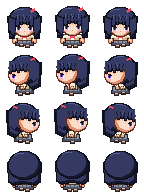
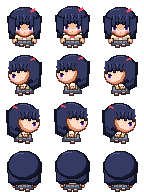
ちびキャラ：顔の上下・左右の明暗をドット単位でつけ、鼻を1ドット下げる
Claude-Session: https://claude.ai/code/session_017gxvkc2TW4xYgG5MuSL3N1

Changed region(s): [[0.7778, 0.125, 0.8889, 0.1875], [0.4444, 0.125, 0.5556, 0.1875], [0.1111, 0.125, 0.2222, 0.1875]]

diff --git a/files.js b/files.js
@@ -2,7 +2,7 @@
 // マップなどを足したら scripts に1行足す（順番どおりに読み込む。main.js は最後）。
 // 版の番号 v は tools/stamp.py が書き換える。
 window.FILES = {
-  v: '20261127042849',
+  v: '20261127043421',
   scripts: [
     'engine/core.js',
     'engine/world.js',

diff --git a/tools/sprites/make_chibi.py b/tools/sprites/make_chibi.py
@@ -243,6 +243,44 @@ def bangs(a, c, x0, x1, tips, top=12, base=21.6, face=None):
     return a.part(shapes, c['hair1'], c['hair2'], shade=c['hair2'], line=c['hairLine'], lw=0.7)
 
 
+def face_shade(a, c, m, hw_top=9):
+    """顔の上下と左右の明暗を1ドットずつ塗る（立体感）。
+    上から：前髪の下は中間色 → 目の下から頬（29〜31行）がいちばん明るい → 32〜33行は中間色 → あごの段は影色。
+    左右の端は内側へ 濃い影→影→（頬の段はもう1段影）→中間色 と暗くなる"""
+    tone = {1: c['skin1'], 2: c['skin2'], 3: c['skinS'], 4: c['handO']}
+    px = m.load()
+    for Y in range(FH):
+        xs = [X for X in range(FW) if px[X, Y] > 127]
+        if not xs:
+            continue
+        L, R = min(xs), max(xs)
+        if Y <= 29:  # 目の高さまでは横の髪が顔の縁になる
+            L, R = max(L, CX - hw_top), min(R, CX + hw_top)
+        base = 2 if Y <= 27 else 1 if Y <= 31 else 2 if Y <= 33 else 3
+        if Y == 28 and abs(xs[0] + xs[-1] - 2 * CX) <= 1:
+            base = 2
+        for X in xs:
+            if X < L or X > R:
+                continue
+            d = min(X - L, R - X) + 1
+            t = base
+            if d == 1:
+                t = max(t, 4 if Y >= 31 else 3)
+            elif d == 2:
+                t = max(t, 3)
+            elif d == 3:
+                t = max(t, 3 if Y in (30, 31) else 2)
+            elif d == 4 and Y in (30, 31):
+                t = max(t, 2)
+            if Y == 28 and abs(X - CX) <= 1:
+                t = max(t, 2)
+            a.im.putpixel((X, Y), rgb_t(tone[t]))
+
+
+def rgb_t(c):
+    return tuple(c[:3]) + (255,)
+
+
 def head(a, c, side):
     girl = c['girl']
     if side == 'up':
@@ -274,7 +312,7 @@ def head(a, c, side):
         eye(a, c, -10.4, side=True)
         if girl:
             a.blob(-13.4, 29.8, -10, 31.4, c['blush'], 0.45, 0.6)
-        a.dots(-14, 30, ['n'], {'n': c['skinS']})  # 鼻（点）
+        a.dots(-14, 31, ['n'], {'n': c['skinS']})  # 鼻（点）
         if girl:
             a.part([('p', [(6, 9.6), (9.6, 8), (10.4, 9.8), (6.8, 11.4)])], c['ribbon1'], c['ribbon2'], lw=0.4)
         if not girl:
@@ -287,6 +325,8 @@ def head(a, c, side):
     if not girl:
         a.part([('p', [(-11, 10), (-13, 6.4), (-6, 8)]), ('p', [(-2, 7.4), (0, 3.6), (2.4, 7.2)]), ('p', [(8, 9), (13, 6.6), (12, 12)])], c['hair1'], c['hair2'], line=c['hairLine'], lw=0.6)
     fm = a.part([('e', -10.4, 15.6, 10.4, 33.6)], c['skin1'], c['skin2'], shade=c['skinS'], sh=(1.2, 1.4), sb=1.0, line=c['skinLine'], lw=0.6)
+    if isinstance(a, Pixel):
+        face_shade(a, c, fm)
     tips = [(-12.4, -8.2, 25), (-8.8, -4.6, 24.6), (-4.6, -1.8, 22.2), (-1.6, 1.6, 20.6), (1.8, 4.6, 22.2), (4.6, 8.8, 24.6), (8.2, 12.4, 25)]  # 毛先は目の上端まで。真ん中だけ短く額が見える
     bm = bangs(a, c, -12.4, 12.4, tips, base=18, face=fm)
     for s in (-1, 1):  # 顔の横の髪：目の外側の端から あごの近くまで顔を縁取る
@@ -299,7 +339,7 @@ def head(a, c, side):
     if girl:
         a.blob(-8.6, 29.8, -4.8, 31.4, c['blush'], 0.45, 0.6)
         a.blob(4.8, 29.8, 8.6, 31.4, c['blush'], 0.45, 0.6)
-    a.dots(0, 30, ['n'], {'n': c['skinS']})  # 鼻（点）。口は省く
+    a.dots(0, 31, ['n'], {'n': c['skinS']})  # 鼻（点）。口は省く
     if girl:
         a.part([('p', [(6.4, 9), (10, 7.4), (10.8, 9.2), (7.2, 10.8)])], c['ribbon1'], c['ribbon2'], lw=0.4)
 

diff --git a/CLAUDE.md b/CLAUDE.md
@@ -10,7 +10,7 @@
 - 校舎（廊下8枚と部屋の型）は `tools/gen_school.py` で生成する。生成した `data/maps/school_*.js` は直接直さず、スクリプトを直して作り直す。お話のイベントは `data/story.js` に `G.addEvents` で足す（`at: '扉の名前'` で位置を決められる）。見取り図の施設名のうち学校が特定されそうな名前は一般的な名前に変える
 - 参考にした市販ゲームのファイル（データ・画像・音・シナリオ）はこのリポジトリに入れない
 - タイル素材（ドット絵世界）は二次配布禁止。元のPNGは入れず、`tools/encode_tileset.py` で変換した `data/tilesets/*.js` だけを入れる。タイトル画面の著作権表示（system.js の credits）は消さない
-- キャラの歩行グラフィックは、いまはちびキャラ（手本：RPGツクールMVの標準キャラの比率、約1.5頭身、1コマ48×48px）。`tools/sprites/make_chibi.py` で描き、`img/chars/haru_chibi.png`・`img/chars/yui_chibi.png` に書き出す。塗りは手本と同じくっきりしたドット絵（48×48pxに直接描く。ベタ塗り、段をつけた影と光、部品ごとに1ドットの濃い輪郭、目は1ドットずつ形を決め、白い光はほぼ使わず外側の白目と上が濃い瞳で表す。髪のかたまりは小さめで額は高め、前髪には毛束の明るい筋を1本おきに入れて凹凸を出す。胴は肩が細く裾へ広がる八の字で、腕も外へ開く。前髪の毛先は目の上端に接するまで下ろし、真ん中の毛束だけ短くしてそのすき間から額をのぞかせる。前髪のすぐ下の肌には影（1段目は影色、2段目は中間色）。顔の横の髪で、目の外側の端からあごの近くまで顔を縁取る（男子は細く短め）。肌は桃色がかった色（白っぽくしない）。目はまるごと見せる。やや上から見下ろしつつ足先まで全身を見せる（胴→スカート／ズボン→脚1ドット（女子は肌色）→靴2ドット（上が明るく下が暗い）。左右の足は幅5ドット（輪郭＋中身3）で間に1ドットのすき間。歩くと上げた足が1ドット上がる）。目は顔の大きさを変えずに大きく、5×5ドット（上まつげは3ドット幅で2段目が内側へ1ドットずれる斜め、黒目3ドット幅で上が濃く一番下が明るい、真ん中に縦2ドットの瞳孔、白目は外側3段・内側2段の両側）。目の間は7ドットで、目の外側は顔の縁（横の髪）に接する。見下ろす角度なので、肩はあごのすぐ下の行から始まり（上の面が明るく見える）、なで肩で下へ広がる。手は丸ではなくミトン形（幅4×高さ5、外側の輪郭は茶色・内側と下は濃い線で腕と胴の境目にもなる、明るい肌は真ん中上寄りに2×2、下の段の内側が欠けてその上に親指の付け根の点）。服の輪郭も濃い色。男子はシャツ6段・ベルト1段・ズボン3段（明るめの色、股の線）。女子のスカートは下半分に、地より濃い色の縦の折り目の線（中心をはさんで4ドット間隔の2本と、裾の両端寄り）。口は省いて鼻を1ドットの点で表す。幅の割合は、手を含めた体が頭の約8割。その中で胴は細く、肩と手を大きめにする）。手本を使うときは、数字で測るだけでなく必ず拡大して絵そのものを見比べる。「イラストを縮めた柔らかい塗り」は4頭身のための試しで、ちびキャラには使わない。3頭身・4頭身は見送り。約4頭身の版（`make_trial.py`→`trial.png`、`make_haru.py`→`haru.png`）も残してある。手本の絵は写さない（比率と描き方だけ合わせる）。直したらスクリプトを動かして画像を作り直す
+- キャラの歩行グラフィックは、いまはちびキャラ（手本：RPGツクールMVの標準キャラの比率、約1.5頭身、1コマ48×48px）。`tools/sprites/make_chibi.py` で描き、`img/chars/haru_chibi.png`・`img/chars/yui_chibi.png` に書き出す。塗りは手本と同じくっきりしたドット絵（48×48pxに直接描く。ベタ塗り、段をつけた影と光、部品ごとに1ドットの濃い輪郭、目は1ドットずつ形を決め、白い光はほぼ使わず外側の白目と上が濃い瞳で表す。髪のかたまりは小さめで額は高め、前髪には毛束の明るい筋を1本おきに入れて凹凸を出す。胴は肩が細く裾へ広がる八の字で、腕も外へ開く。前髪の毛先は目の上端に接するまで下ろし、真ん中の毛束だけ短くしてそのすき間から額をのぞかせる。前髪のすぐ下の肌には影（1段目は影色、2段目は中間色）。顔の横の髪で、目の外側の端からあごの近くまで顔を縁取る（男子は細く短め）。肌は桃色がかった色（白っぽくしない）。顔は上下と左右に4段（明・中間・影・濃い影）の明暗をドット単位でつけて立体感を出す（前髪の下は中間色→目の下から頬の段がいちばん明るい→その下は中間色→あごの段は影色。左右の端は内側へ濃い影→影→中間色、頬の段は影を1段多く）。目はまるごと見せる。やや上から見下ろしつつ足先まで全身を見せる（胴→スカート／ズボン→脚1ドット（女子は肌色）→靴2ドット（上が明るく下が暗い）。左右の足は幅5ドット（輪郭＋中身3）で間に1ドットのすき間。歩くと上げた足が1ドット上がる）。目は顔の大きさを変えずに大きく、5×5ドット（上まつげは3ドット幅で2段目が内側へ1ドットずれる斜め、黒目3ドット幅で上が濃く一番下が明るい、真ん中に縦2ドットの瞳孔、白目は外側3段・内側2段の両側）。目の間は7ドットで、目の外側は顔の縁（横の髪）に接する。見下ろす角度なので、肩はあごのすぐ下の行から始まり（上の面が明るく見える）、なで肩で下へ広がる。手は丸ではなくミトン形（幅4×高さ5、外側の輪郭は茶色・内側と下は濃い線で腕と胴の境目にもなる、明るい肌は真ん中上寄りに2×2、下の段の内側が欠けてその上に親指の付け根の点）。服の輪郭も濃い色。男子はシャツ6段・ベルト1段・ズボン3段（明るめの色、股の線）。女子のスカートは下半分に、地より濃い色の縦の折り目の線（中心をはさんで4ドット間隔の2本と、裾の両端寄り）。口は省いて鼻を1ドットの点で表す（頬のいちばん明るい段の最後の行、31行目）。幅の割合は、手を含めた体が頭の約8割。その中で胴は細く、肩と手を大きめにする）。手本を使うときは、数字で測るだけでなく必ず拡大して絵そのものを見比べる。「イラストを縮めた柔らかい塗り」は4頭身のための試しで、ちびキャラには使わない。3頭身・4頭身は見送り。約4頭身の版（`make_trial.py`→`trial.png`、`make_haru.py`→`haru.png`）も残してある。手本の絵は写さない（比率と描き方だけ合わせる）。直したらスクリプトを動かして画像を作り直す
 - 字体：ゲームの文字は M+ 1m（`fonts/mplus-1m-regular.ttf`、M+ FONTS は自由に使用・配布できる）。`G.font()` と css/style.css で指定している。収録外の文字（♪など）は端末のフォントになる
 - 公開は gh-pages ブランチから。更新したら、まず `python3 tools/stamp.py`（files.js の版の番号を新しくする。ブラウザが古いファイルを使い回して新旧が混ざるのを防ぐ）、コミットして `git push origin main main:gh-pages` で両方に送る。そのあと `gh api repos/nzanke/game-test/actions/runs` で「pages build and deployment」が新しいコミットで completed success になったのを確かめてから報告する。ビルドが走らないときは空のコミットを送り直す（Pages 設定のAPIは作業環境から使えない）
 - やりとりと説明は日本語で
